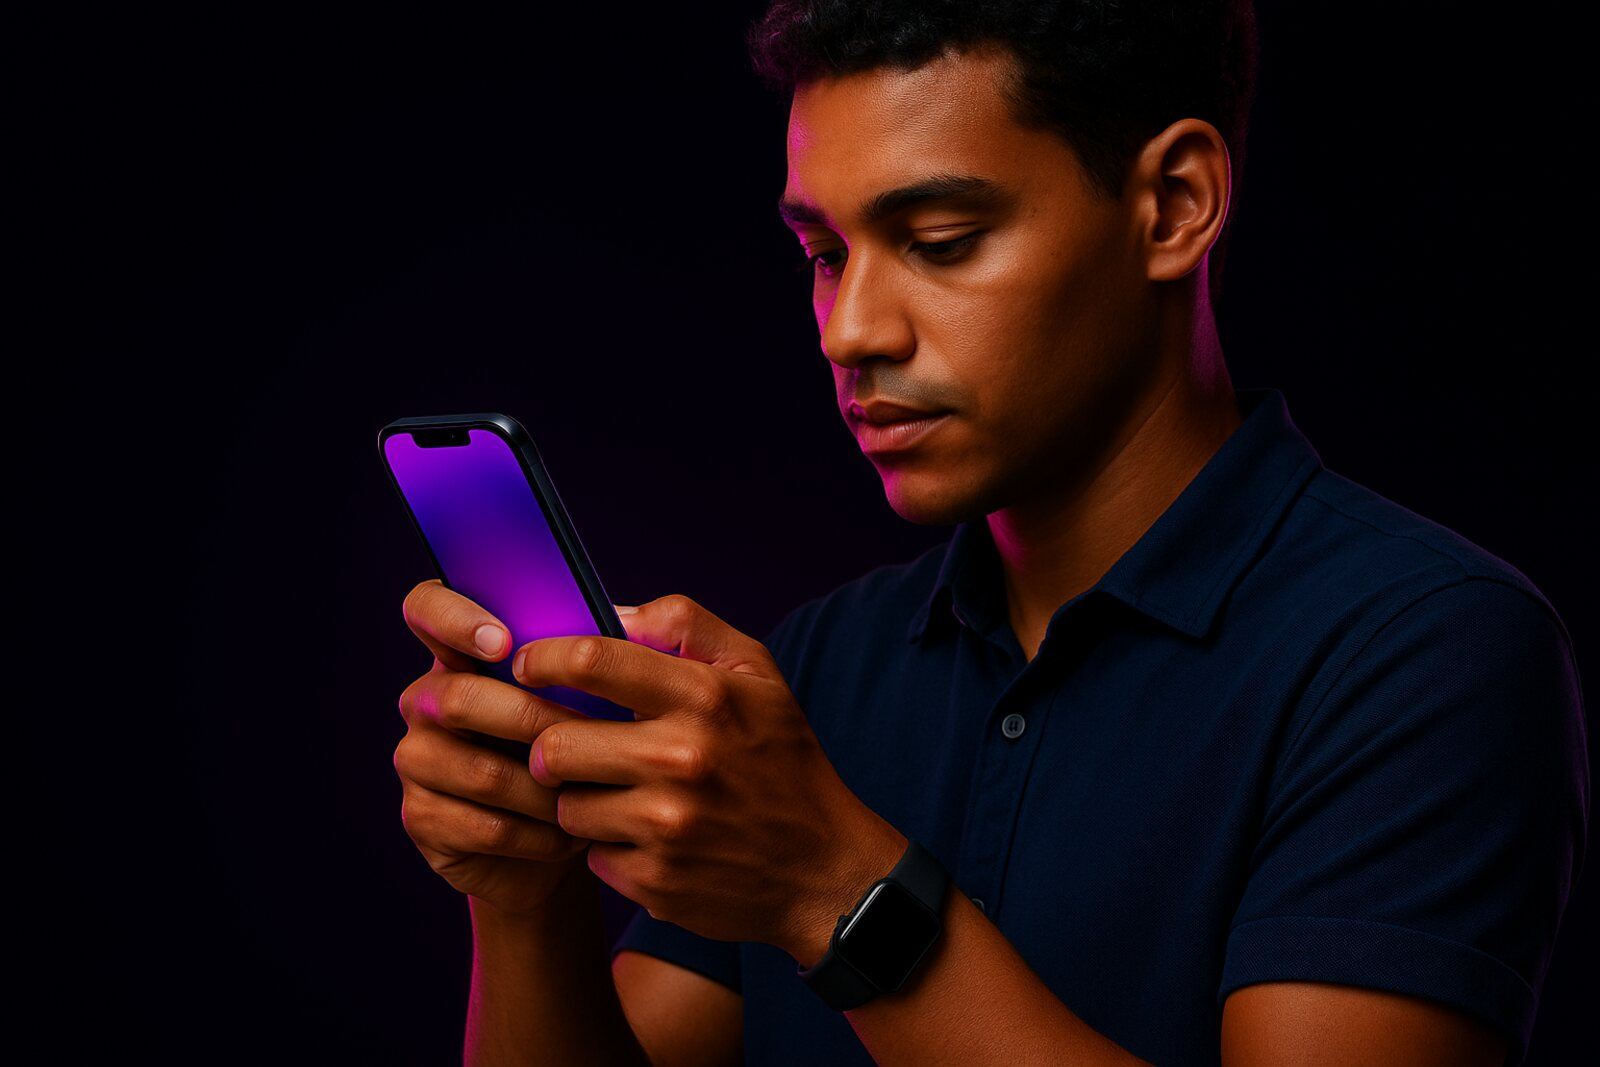
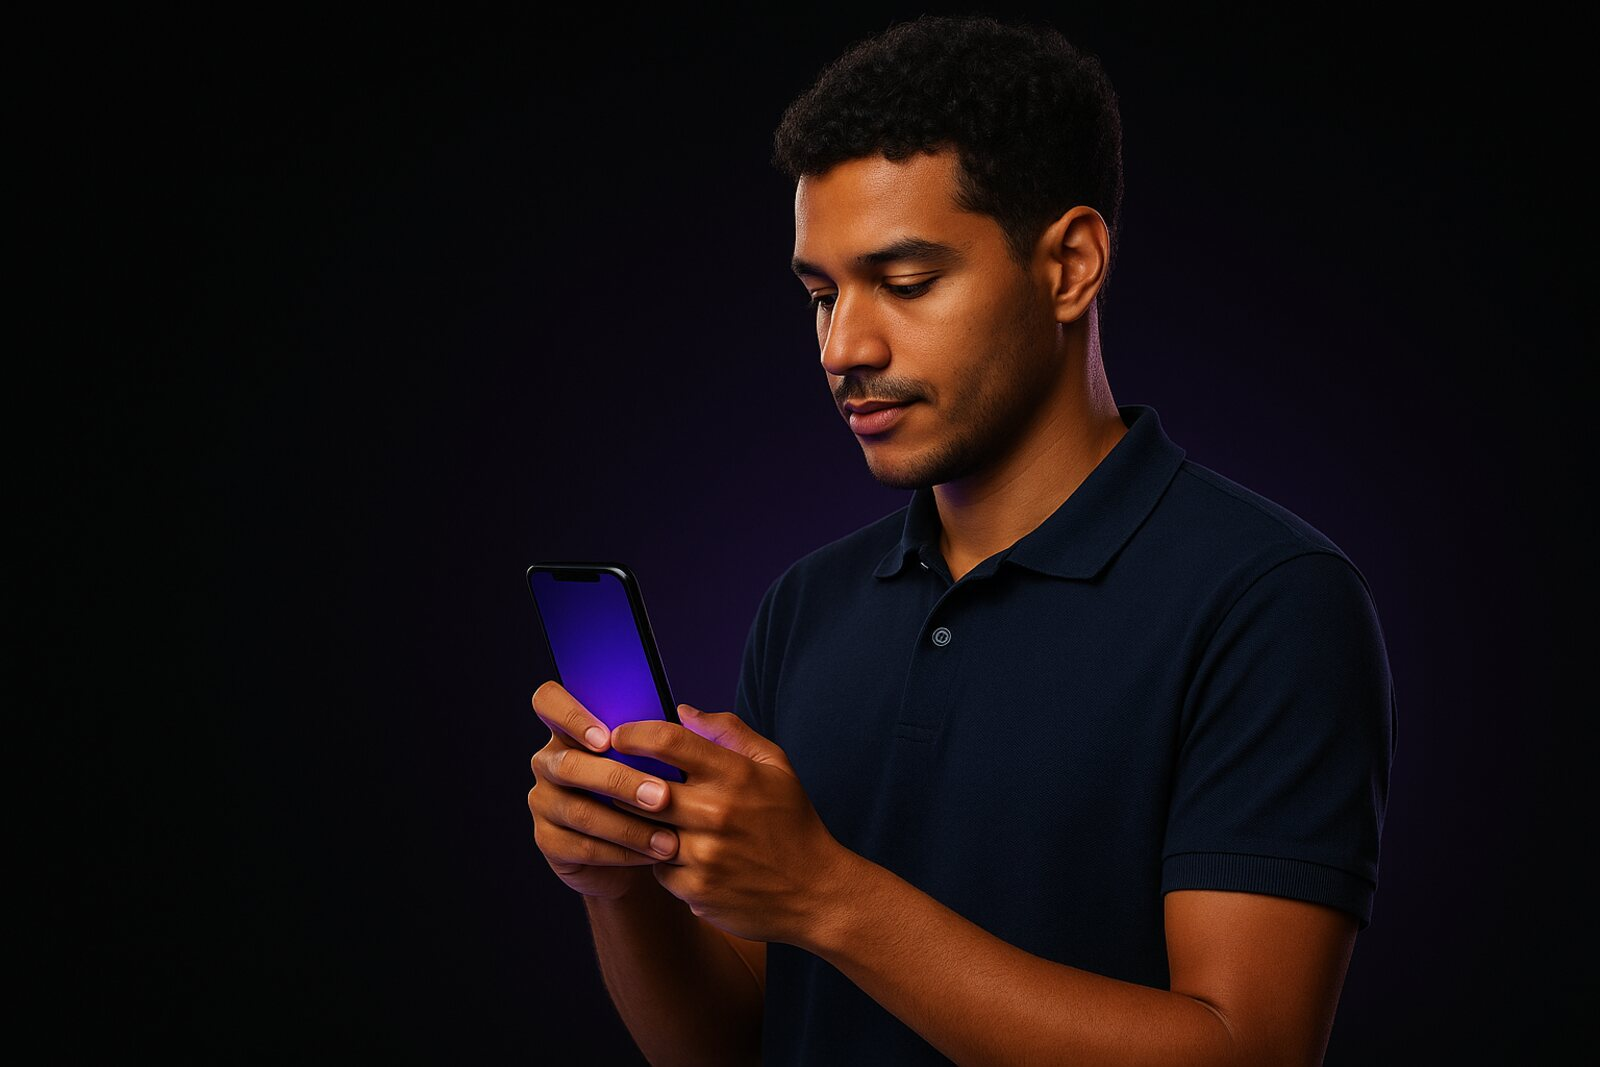
fix: celular da faixa estava virado (tela apontando pra camera)
O take anterior saiu com o aparelho de costas pra quem o segurava: a tela
apontava pra camera e nao pros olhos dele — o sujeito 'batia o ponto' olhando
pra traseira do celular. Artefato do gerador que passou na revisao porque so
aparece no zoom.

Regerado com trava explicita de geometria (retrato, topo pra cima, tela voltada
pro rosto, linha do olhar cravada na tela), 3 variantes, escolhida a v1.

Faixa passa de 660px pra 800px de altura: o sujeito ocupa ~816px e a banda
antiga nao comportava cabeca E celular — cortava justamente o gesto do toque.

diff --git a/index.html b/index.html
@@ -345,10 +345,12 @@ section[id]{scroll-margin-top:calc(var(--nav-h) + 8px)}
 .fita .selo{text-align:center;padding-top:13px;color:var(--verde);font-size:10.5px;letter-spacing:.09em;text-transform:uppercase}
 
 /* ---------- FAIXA FULL-BLEED ---------- */
-.faixa{position:relative;width:100%;height:clamp(420px,58vw,660px);overflow:hidden;background:#0b0a0e}
-/* 12% no eixo Y: a cabeça do sujeito está colada no topo do arquivo —
-   com "center" o corte decapita o retrato. */
-.faixa img{width:100%;height:100%;object-fit:cover;object-position:62% 12%}
+/* Alta o bastante pra caber cabeça E celular: o sujeito ocupa ~816px na largura
+   máxima, e uma banda de 660px decapitava ou cortava o gesto do toque. */
+.faixa{position:relative;width:100%;height:clamp(460px,56vw,800px);overflow:hidden;background:#0b0a0e}
+/* 30% no eixo Y: enquadra do topo da cabeça até o polegar na tela. Mais alto
+   decapita; mais baixo corta o gesto — que é o assunto da foto. */
+.faixa img{width:100%;height:100%;object-fit:cover;object-position:62% 30%}
 .faixa::after{
   content:"";position:absolute;inset:0;
   background:linear-gradient(95deg, rgba(11,10,14,.95) 0%, rgba(11,10,14,.8) 32%, rgba(11,10,14,.1) 60%, transparent 75%);